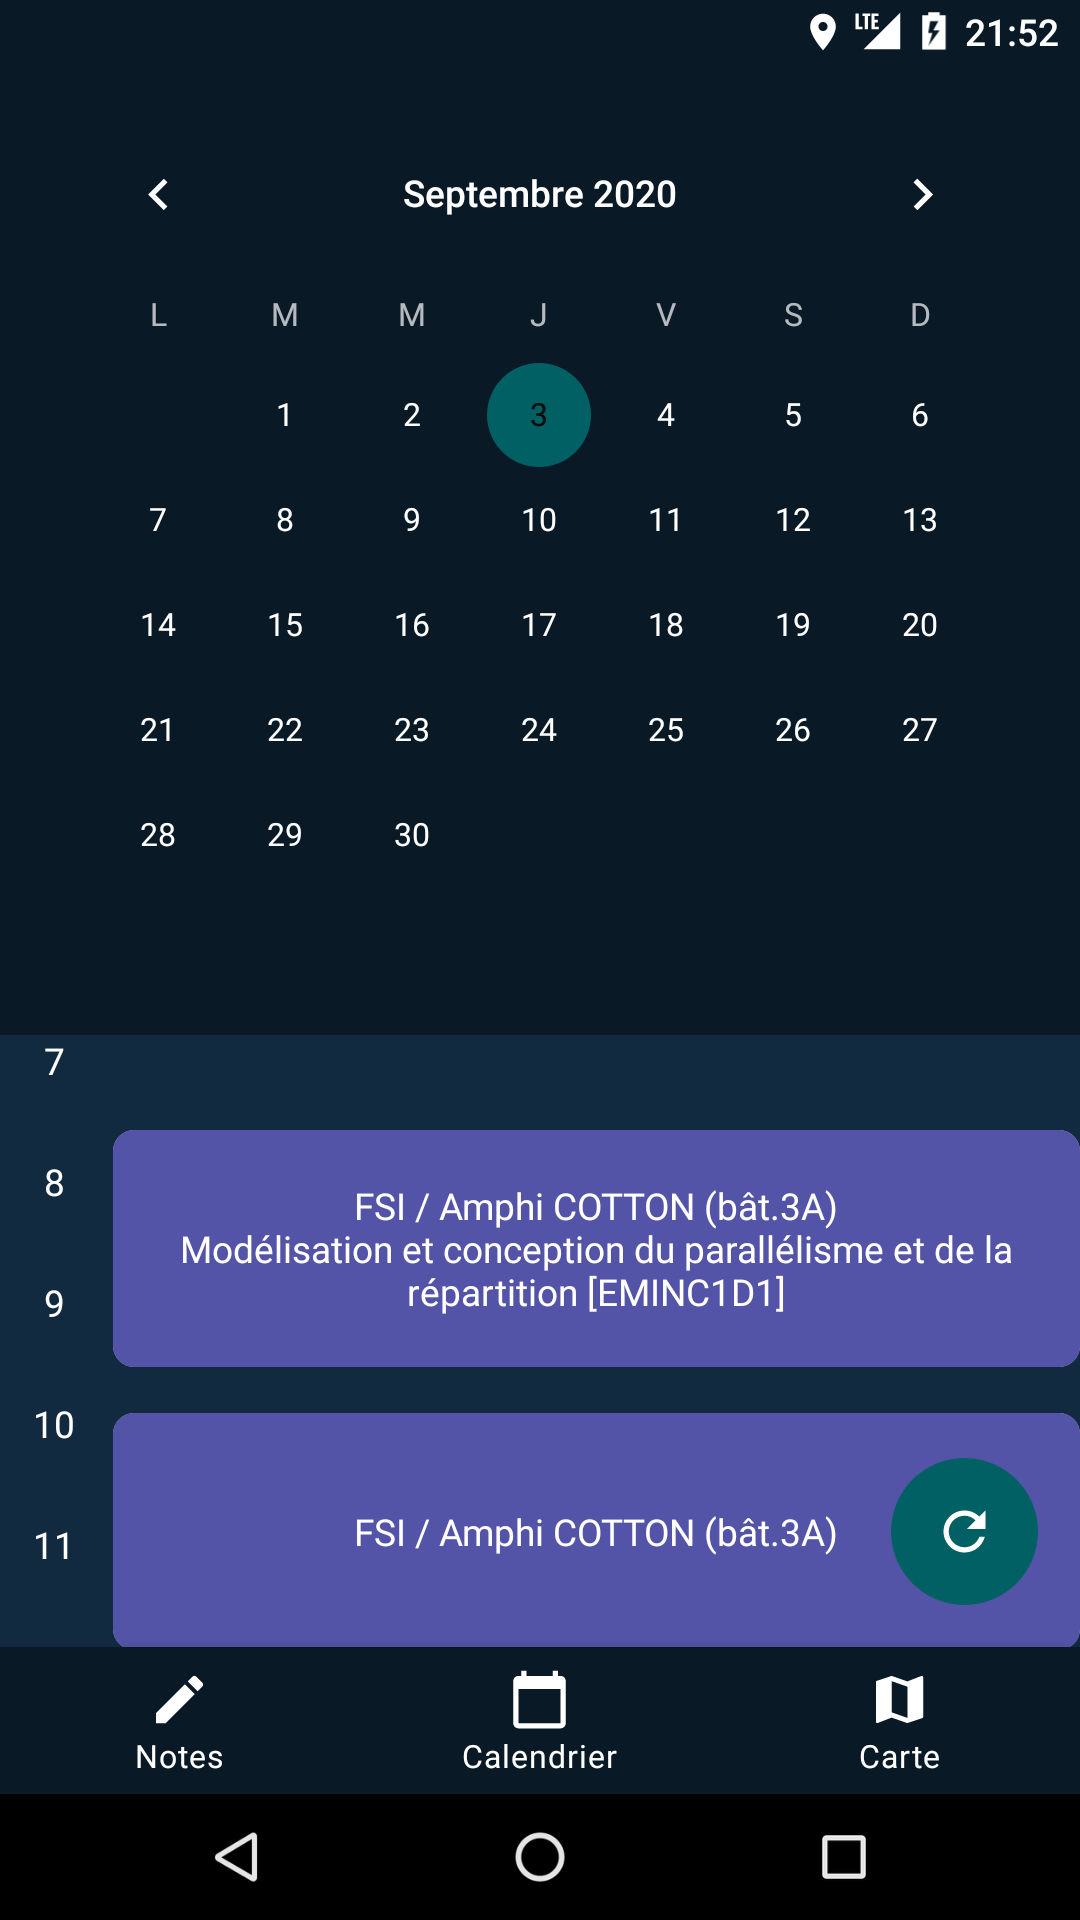
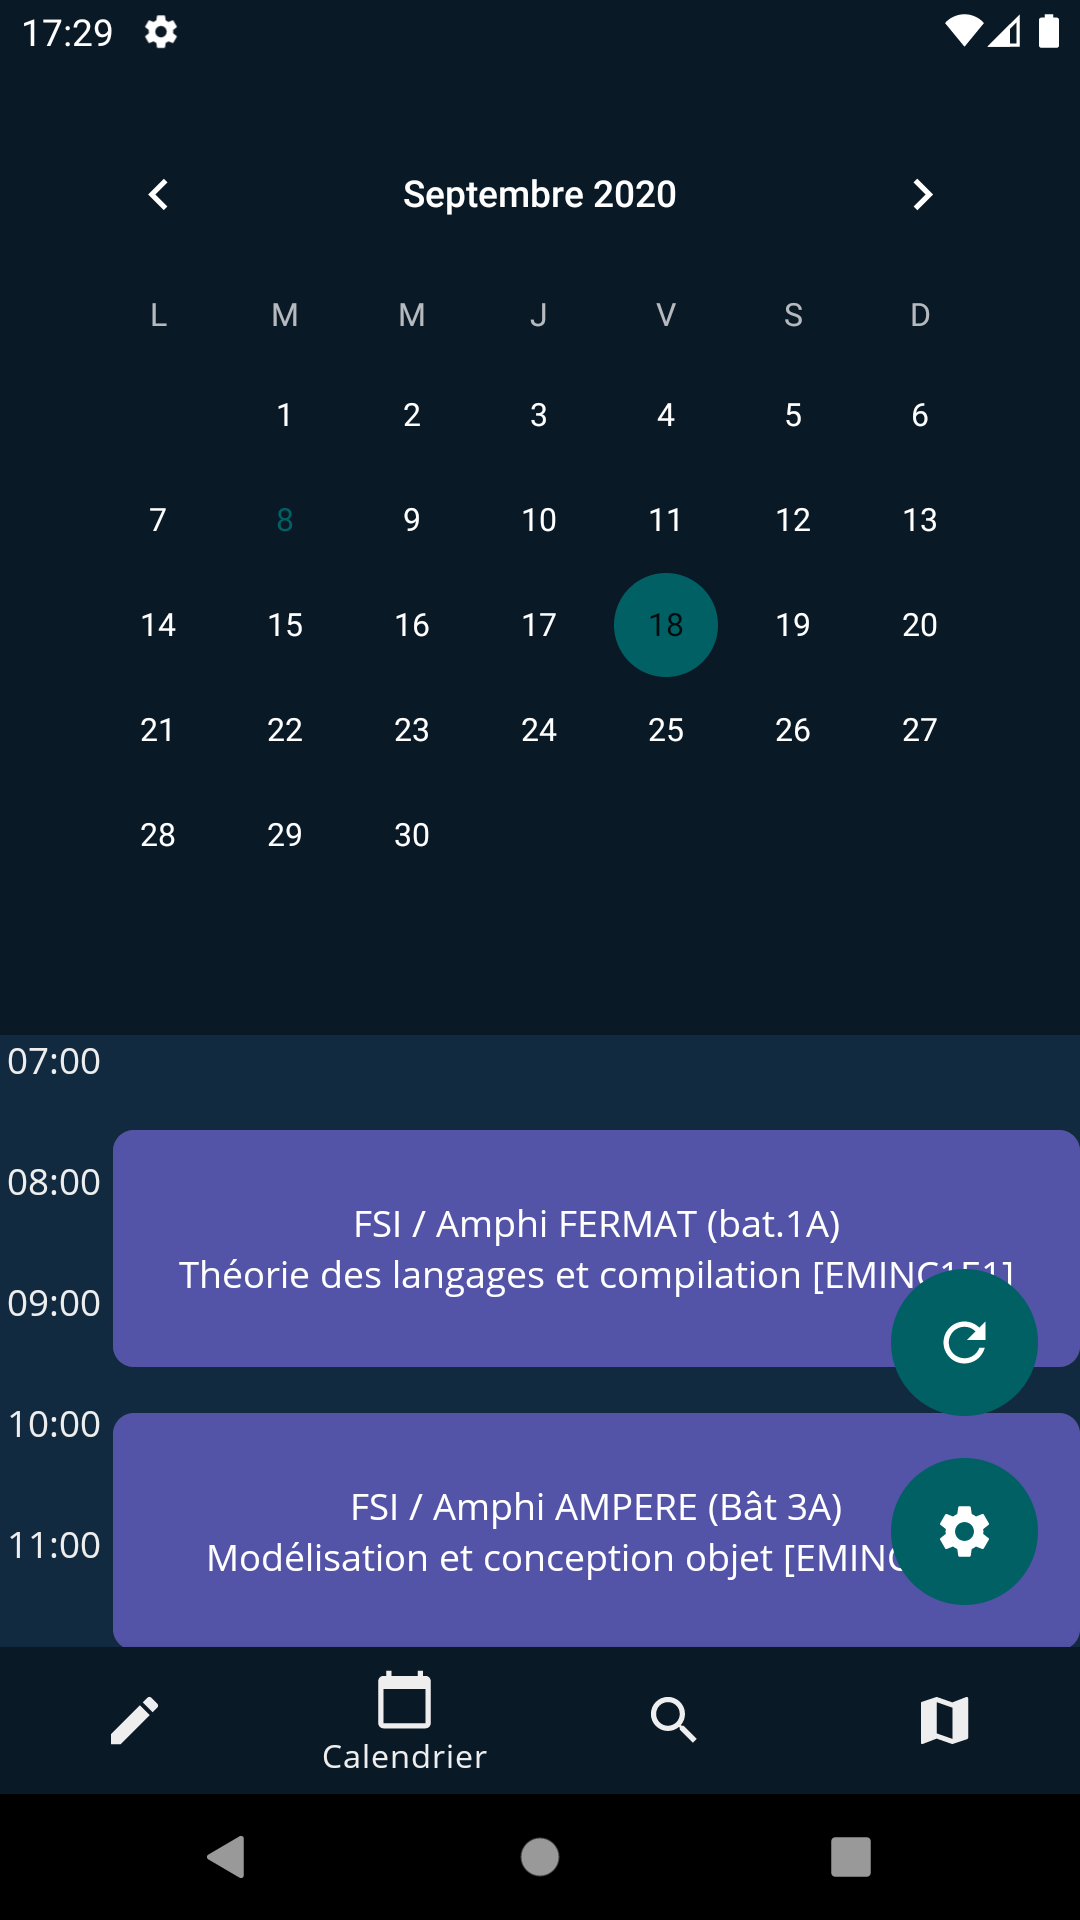
feat: Application is now available for every faculty that has Celcat ! :) refactor: The course names are putted in a Map which contains information as this : {id: text, text: text} to handle faculties (or ut3 iut) that display the id instead of the text in the event description.
update: readme.md and previews.

diff --git a/README.md b/README.md
@@ -3,16 +3,22 @@
 Cette application permet de consulter le calendrier Celcat de l'université Paul Sabatier directement sur votre téléphone.  
 Disponible pour Android --> [ici](https://play.google.com/store/apps/details?id=com.edt.ut3&hl=ln) <-- !
 
+## Faites partit du projet !  
+Nous avons ouvert un Discord pour les bêtas afin que les testeurs puissent nous contacter plus facilement.  
+Il est possible que l'application soit portée sur IOS, nous sommes donc à la recherche de développeurs qui pourraient nous aider à le concevoir en Flutter. N'hésitez donc pas à rejoindre le serveur pour nous en parler :)
+
 ## Modifications par rapport à la version 1.x
 
 L'application a été entièrement repensée et entièrement re-codée en Kotlin, l'ancienne version étant en Java.  
 Elle profite d'une interface refaite à neuf ainsi que de nouvelles fonctionnalités.  
 Parmis elles on pourra noter :
+ - Le fait que l'emploi du temps est compatible avec tous les emplois du temps qui ont une version de Celcat compatible y compris pour les facultés autres que Paul Sabatier. On notera cependant que selon la façon dont les données sont organisées, les affichages sur les événements dans le calendrier seront plus ou moins précis. Par exemple la détection des salles, lieux et noms des cours dans la description des événements ne pourront pas être efféctués dans certains cas.
  - L'enregistrement des notes se fait en temps réel pendant l'édition de ces dernières.
+ - Il est maintenant possible de cacher les cours qui ne nous intéressent pas (dans le cas où la détection des noms des matières a fonctionnée)
  - Il est maintenant possible d'ajouter des photos aux notes.
  - L'emploi du temps est maintenant affiché d'une manière différente, deux événements à la même heure seront positionnés côte-à-côte (voir screens plus bas).
- - Deux layouts ont été ajoutées et sont cachées derrière l'emploi du temps. Sur la gauche, une pour afficher les modifications de la dernière sauvegarde. Sur la droite, des options que l'utilisateur pourra régler lui-même.
- - Un fragment affichant une carte interactive à la manière de Google Maps (pour l'instant avec osmdroid) montre les différents bâtiments de l'université ainsi que ceux du Crous. La recherche de chemin se fait par contre via l'application Google Maps pour des questions de coût, les APIs de ce genre étant pour la plupart payantes.
+ - Deux layouts ont été ajoutées et sont cachées derrière l'emploi du temps. Sur la gauche, une pour afficher les modifications de la dernière sauvegarde. Sur la droite, des options que l'utilisateur pourra régler lui-même comme le fait de régler l'affichage sur certains cours.
+ - Un fragment affichant une carte interactive à la manière de Google Maps (pour l'instant avec [OSMDroid](https://github.com/osmdroid/osmdroid)) montre les différents bâtiments de l'université ainsi que ceux du Crous. La recherche de chemin se fait par contre via l'application Google Maps pour des questions de coût, les APIs de ce genre étant pour la plupart payantes.
 
 ## Description des fragments  
 ### Calendrier  
@@ -26,22 +32,27 @@ Le calendrier (et l'application en général) dispose d'un thème sombre et d'un
 Les événements sont maintenant disposés côte à côte lorsque qu'ils sont à la même heure ou bien qu'ils se chevauchent.  
 Cela évite donc les "multi-event" utilisés dans l'ancienne version qui demandaient de cliquer dessus puis de traverser les différents événement pour réellement voir quels étaient les cours. Ceci est rendu possible grâce à la librarie [Yoda](https://github.com/ElZozor/yoda), codée pour ce projet.
 
-<img src="https://raw.githubusercontent.com/ElZozor/ut3_calendar/master/previews/calendrier_evenements.png" height="600" alt="Affichage événements">
+   Theme Clair   |   Theme sombre
+:---------------:|:-----------------:
+<img src="https://raw.githubusercontent.com/ElZozor/ut3_calendar/master/previews/calendrier_evenements_white.png" height="600" alt="Theme clair"> | <img src="https://raw.githubusercontent.com/ElZozor/ut3_calendar/master/previews/calendrier_evenements_dark.png" height="600" alt="Theme sombre">
+
 
 Lors d'un clic sur un événement un fragment souvre par le bas, affichant les détails et la note associée à cet événement (s'il y en a une).  
 Ce fragment permet par ailleurs de prendre des photos qui seront associées à la note.
 
-<img src="https://raw.githubusercontent.com/ElZozor/ut3_calendar/master/previews/event_details.png" height="600" alt="Détail événements / Notes">  
-
-_A noter que le fragment n'est pas finit, l'image n'est donc pas forcément représentative._
+   Theme Clair   |   Theme sombre
+:---------------:|:-----------------:
+<img src="https://raw.githubusercontent.com/ElZozor/ut3_calendar/master/previews/event_details_white.png" height="600" alt="Theme clair"> | <img src="https://raw.githubusercontent.com/ElZozor/ut3_calendar/master/previews/event_details_dark.png" height="600" alt="Theme sombre">
 
 ### Préférences
 
-<img src="https://raw.githubusercontent.com/ElZozor/ut3_calendar/master/previews/preferences.png" height="600" alt="Fragment Preferences">  
+   Theme Clair   |   Theme sombre
+:---------------:|:-----------------:
+<img src="https://raw.githubusercontent.com/ElZozor/ut3_calendar/master/previews/preferences_white.png" height="600" alt="Theme clair"> | <img src="https://raw.githubusercontent.com/ElZozor/ut3_calendar/master/previews/preferences_dark.png" height="600" alt="Theme sombre">
 
 
 Les différentes options qui s'offrent maintenant à l'utilisateur sont :  
- - Le choix du theme (clair, sombre, définir une place horraire)
+ - Le choix du theme (thème du téléphone, clair, sombre ou définir une plage horraire)
    - Pour ce qui est de la plage horraire, on définit tout simplement une plage horraire pendant laquelle le thème sombre s'activera.
  - L'activation ou non des notifications de mises à jour d'emploi du temps. Celles-ci resteront tout de même disponible sur la gauche du calendrier.
  - Le lien vers le calendrier Celcat qui permettra à l'application de récupérer l'emploi du temps. Le choix de la formation ne se fait donc plus via l'onglet de choix de formation pour plusieurs raisons qui sont notamment que cette page n'est pas fixe dans le temps ainsi que certaines formations qui sont présentent dessus ne possède pas d'emploi du temps sur Celcat.
@@ -50,17 +61,10 @@ D'autres options sont à l'étude comme la suppression des événements à parti
 
 ### Carte
 
-<img src="https://raw.githubusercontent.com/ElZozor/ut3_calendar/master/previews/maps.png" height="600" alt="Fragment Maps">  
+   Theme Clair   |   Theme sombre
+:---------------:|:-----------------:
+<img src="https://raw.githubusercontent.com/ElZozor/ut3_calendar/master/previews/maps_white.png" height="600" alt="Theme clair"> | <img src="https://raw.githubusercontent.com/ElZozor/ut3_calendar/master/previews/maps_dark.png" height="600" alt="Theme sombre">
+<img src="https://raw.githubusercontent.com/ElZozor/ut3_calendar/master/previews/maps_choices_white.png" height="600" alt="Theme clair"> | <img src="https://raw.githubusercontent.com/ElZozor/ut3_calendar/master/previews/maps_choices_dark.png" height="600" alt="Theme sombre">
 
-_Ce fragment n'est pas finit_
-
-Toujours à l'étude quand au choix de l'API pour des raisons de prix, de compatibilité avec les nouvelles versions d'Android et autre, ce fragment permet néamoins sur les versions d'Android compatibles d'afficher la carte du campus avec les différents bâtiments ainsi que les points de restauration du Crous.  
-
-Il permet aussi de se rendre à un point indiqué grâce à Google Maps.  
-On notera cependant que cette fonctionnalité ne sera peut-être pas implémentable car la plupart des APIs existantes sont soit payantes, soit non compatibles soit ne fonctionnement tout simplement pas..
-
-
-## Pour finir
-
-Le projet est encore en cours de développement.  
-Si des idées vous passent par la tête, que vous constatez un bug ou autre, n'hésitez pas à me contacter.
+L'API retenue a finalement été OSMDroid qui utilise OpenStreeMap.
+Pour la recherche de chemin, cela se fera via un Intent Google Maps.
